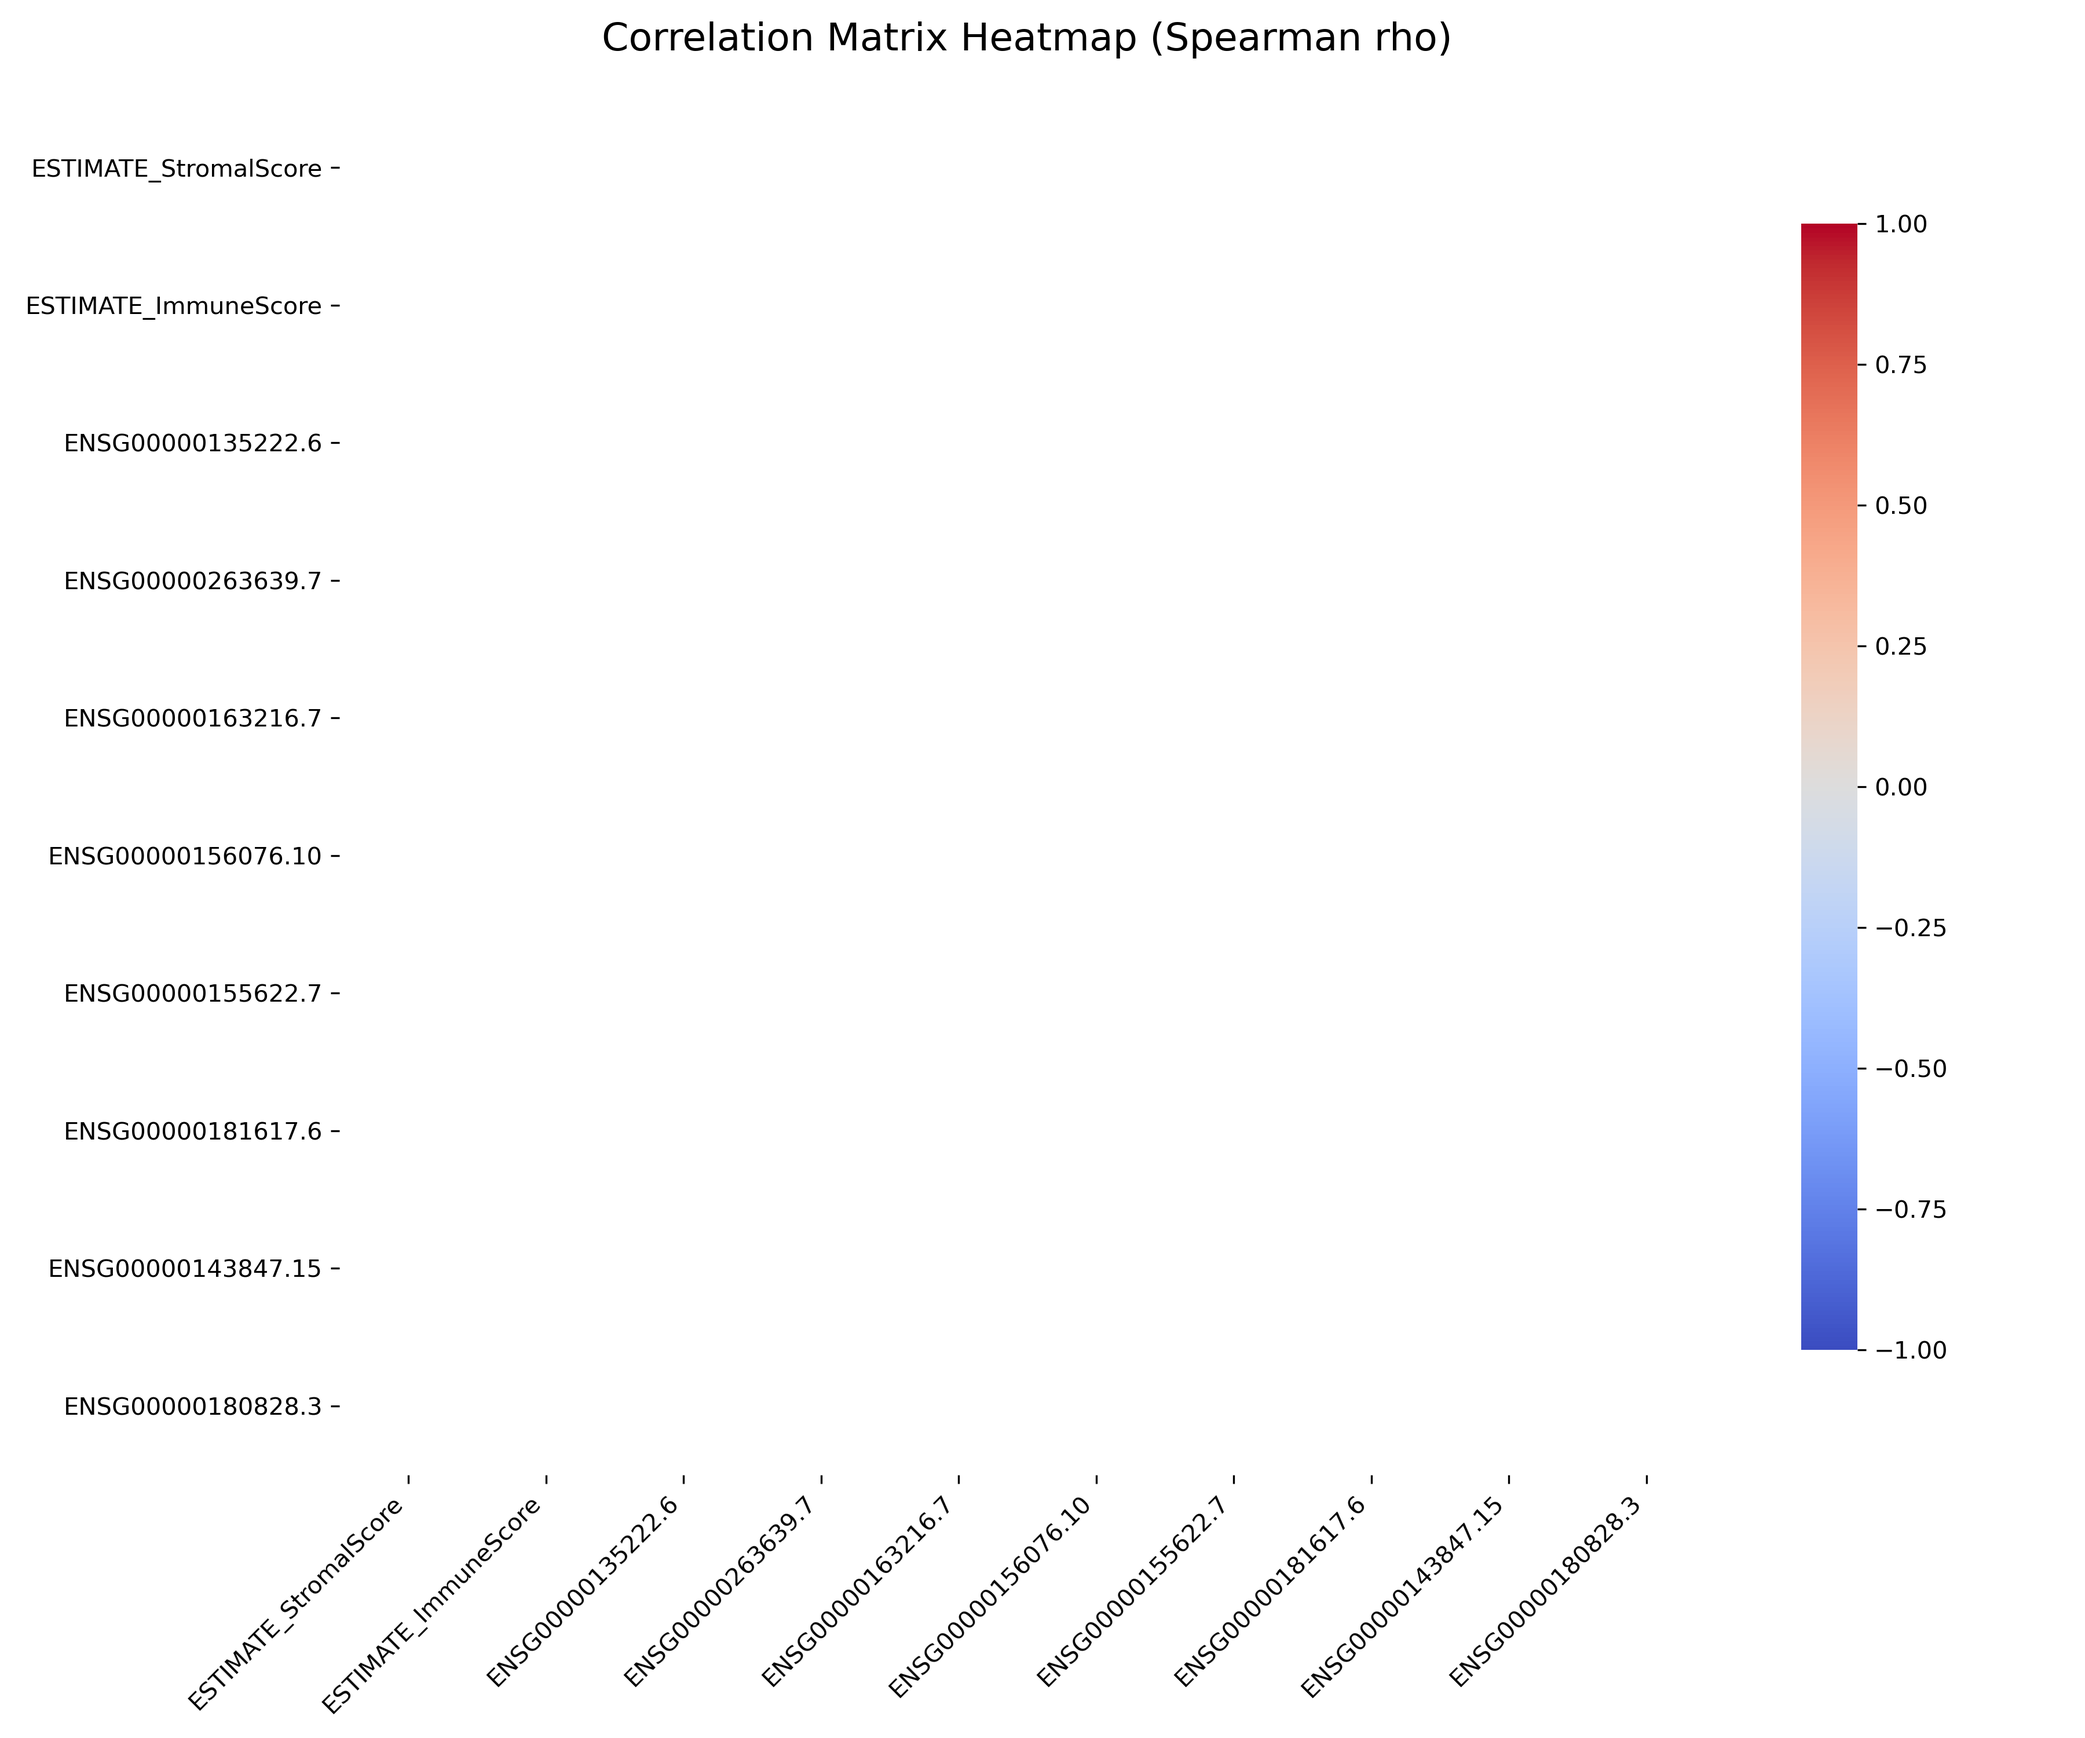
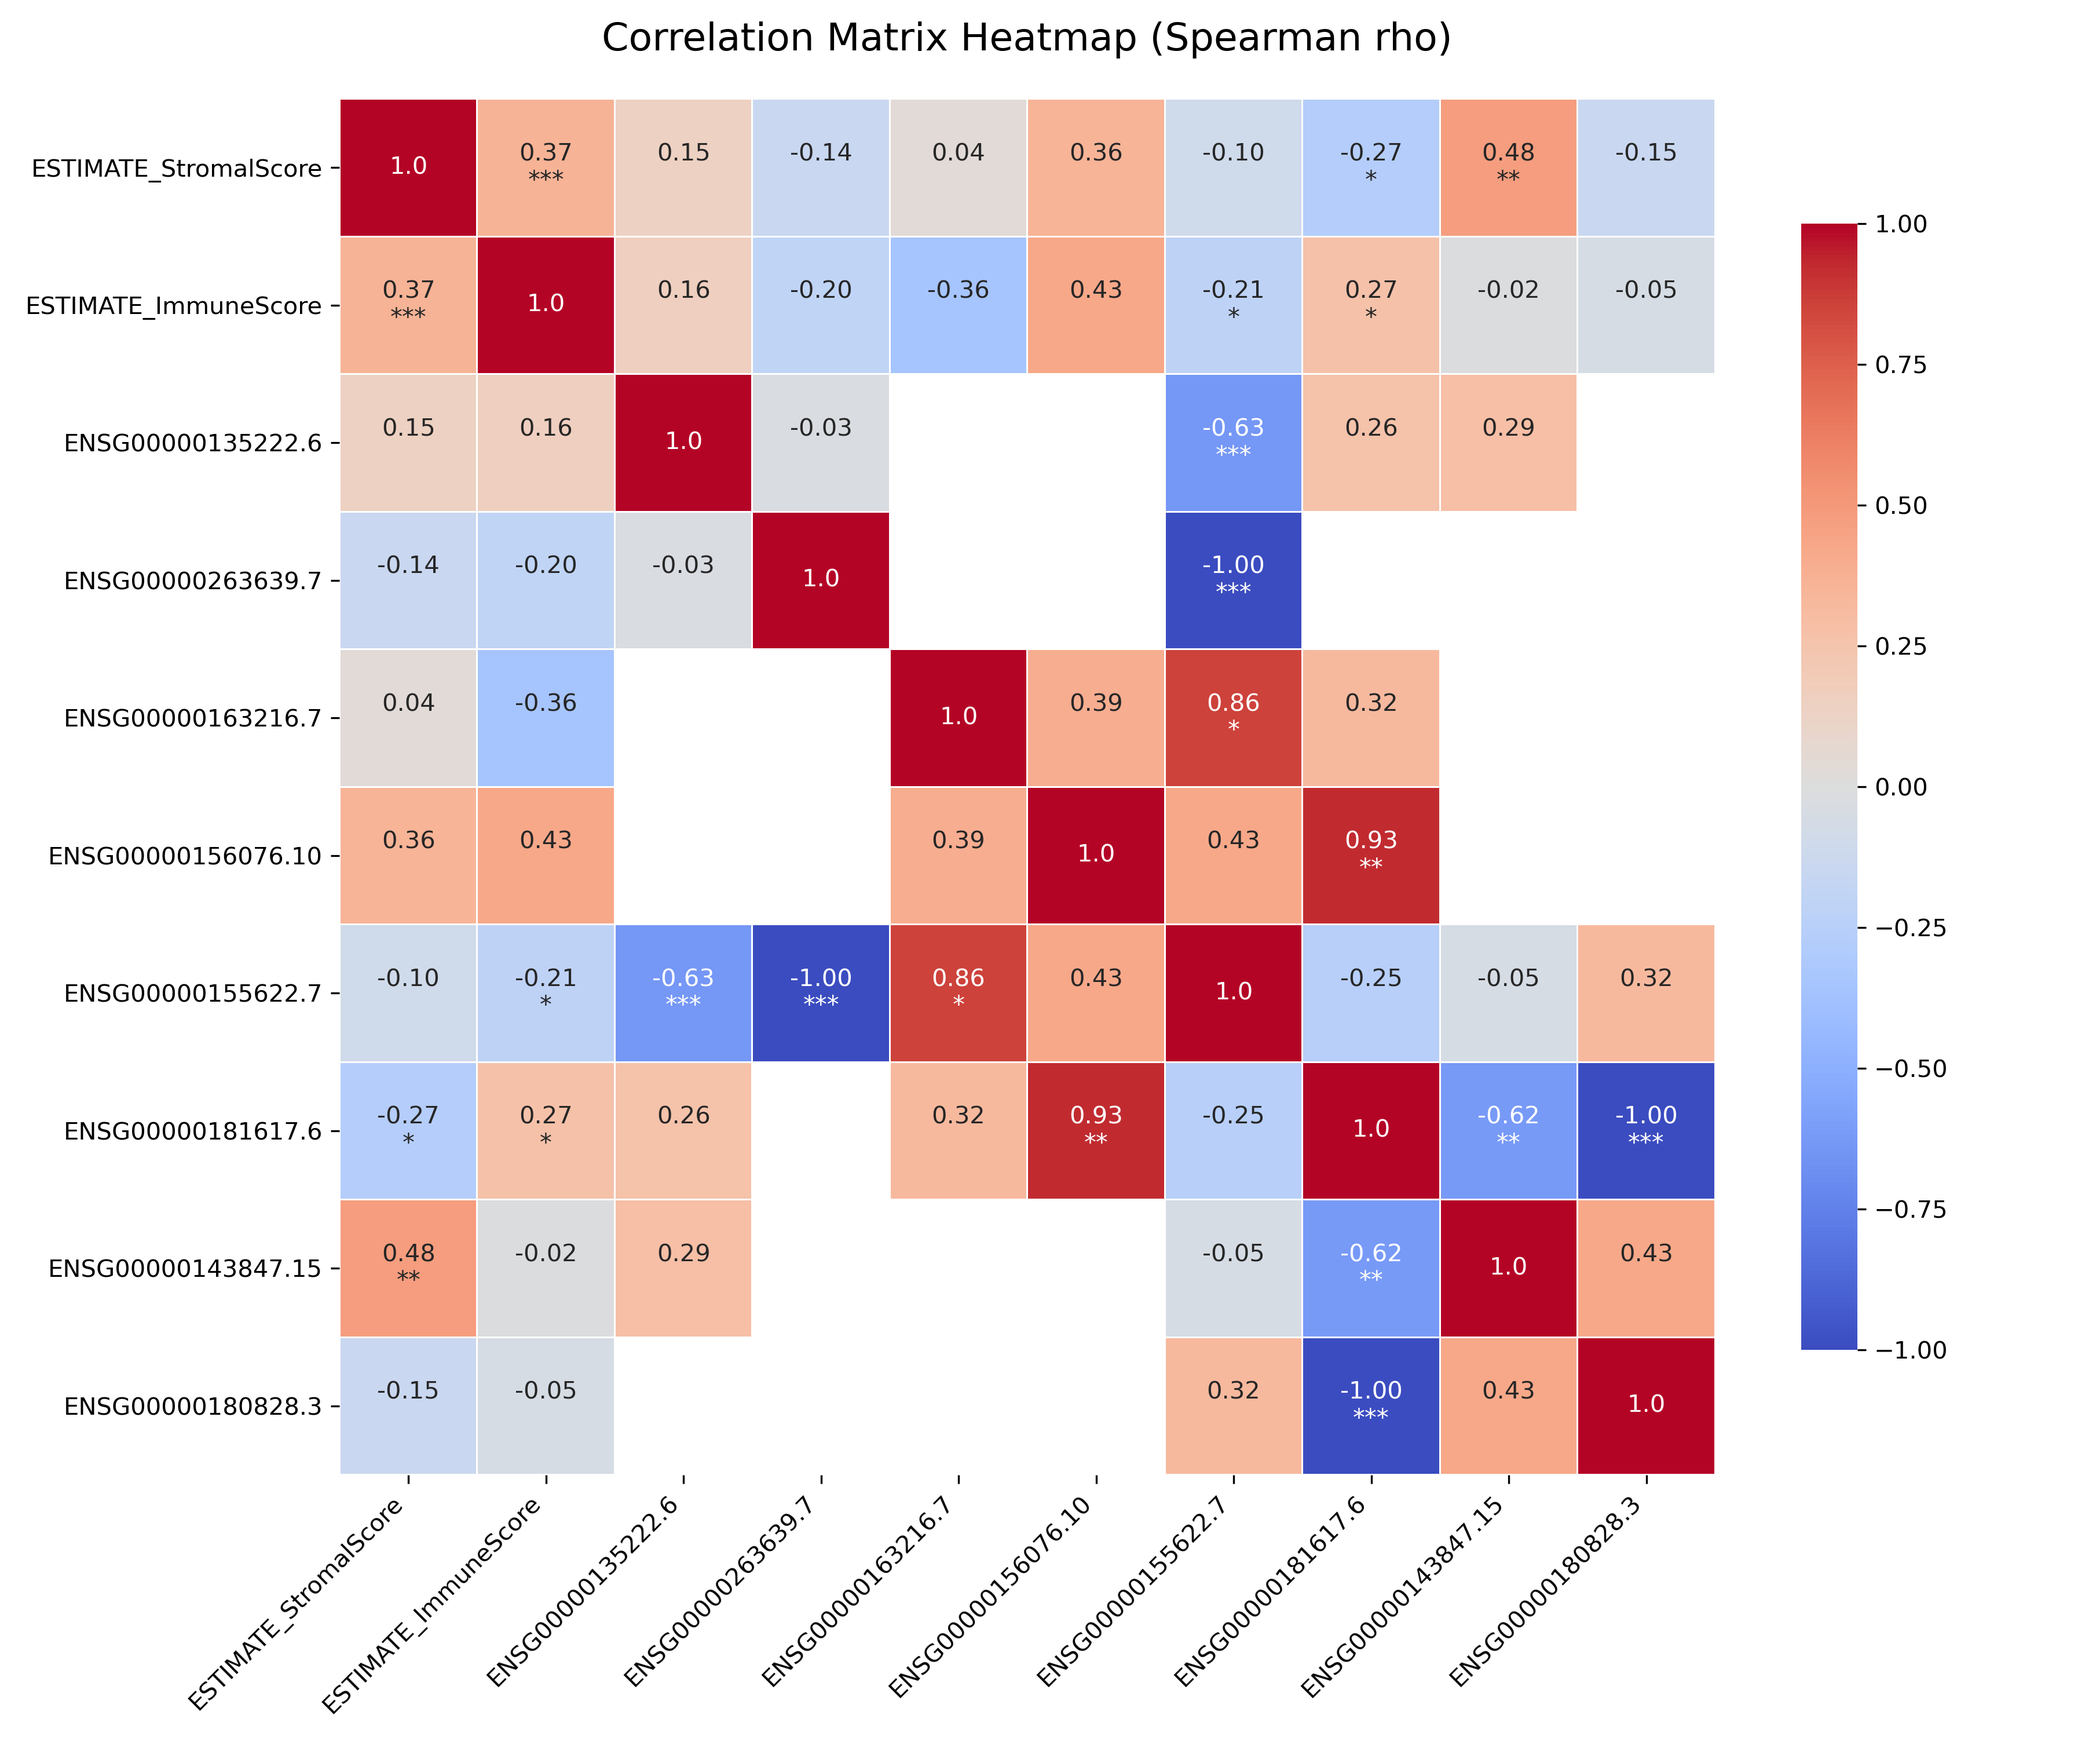
fix: resolve empty correlation heatmap caused by strict NaN dropping

diff --git a/src/02_categorical_correlation.py b/src/02_categorical_correlation.py
@@ -66,18 +66,20 @@ def main():
     pheno_feats = ['ESTIMATE_StromalScore', 'ESTIMATE_ImmuneScore']
     corr_cols = pheno_feats + top_genes
     
-    corr_data = merged_df[corr_cols].apply(pd.to_numeric, errors='coerce').dropna()
+    corr_data = merged_df[corr_cols].apply(pd.to_numeric, errors='coerce')
     
-    # Calculate correlation matrix (Spearman for robustness)
     corr_matrix = corr_data.corr(method='spearman')
     
-    # Calculate p-values to add asterisks
     pval_matrix = pd.DataFrame(np.ones_like(corr_matrix.values), columns=corr_cols, index=corr_cols)
     for i in corr_cols:
         for j in corr_cols:
             if i != j:
-                _, p_val = stats.spearmanr(corr_data[i], corr_data[j])
-                pval_matrix.loc[i, j] = p_val
+                mask = corr_data[i].notna() & corr_data[j].notna()
+                if mask.sum() > 2:
+                    _, p_val = stats.spearmanr(corr_data.loc[mask, i], corr_data.loc[mask, j])
+                    pval_matrix.loc[i, j] = p_val
+                else:
+                    pval_matrix.loc[i, j] = 1.0
                 
     # Format annotations: r value + * if significant
     annot_matrix = pd.DataFrame('', index=corr_matrix.index, columns=corr_matrix.columns)
